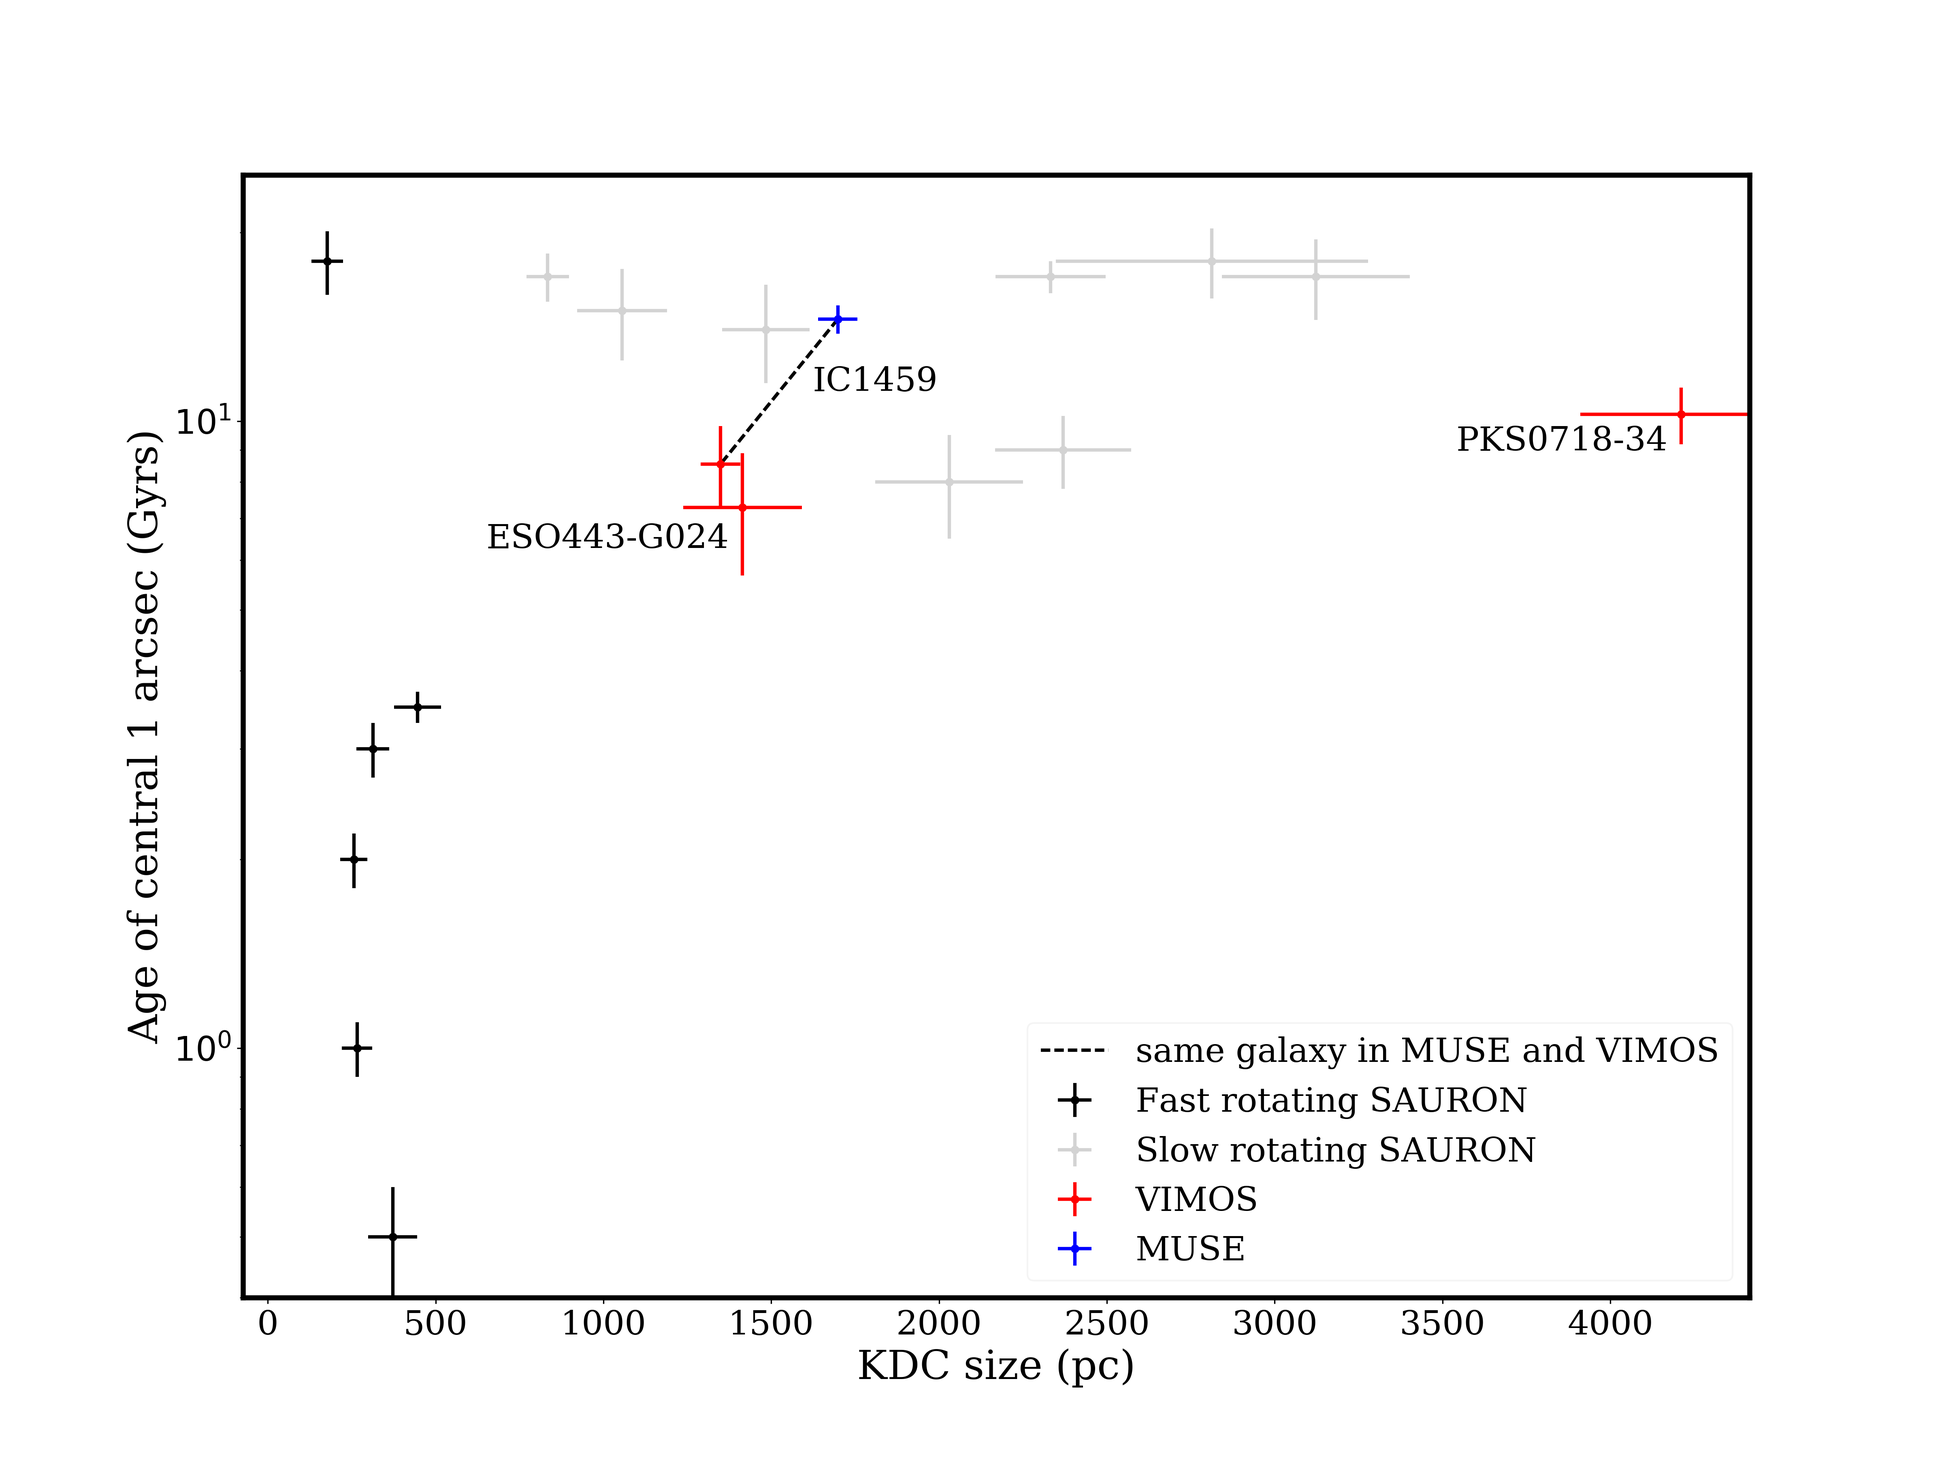
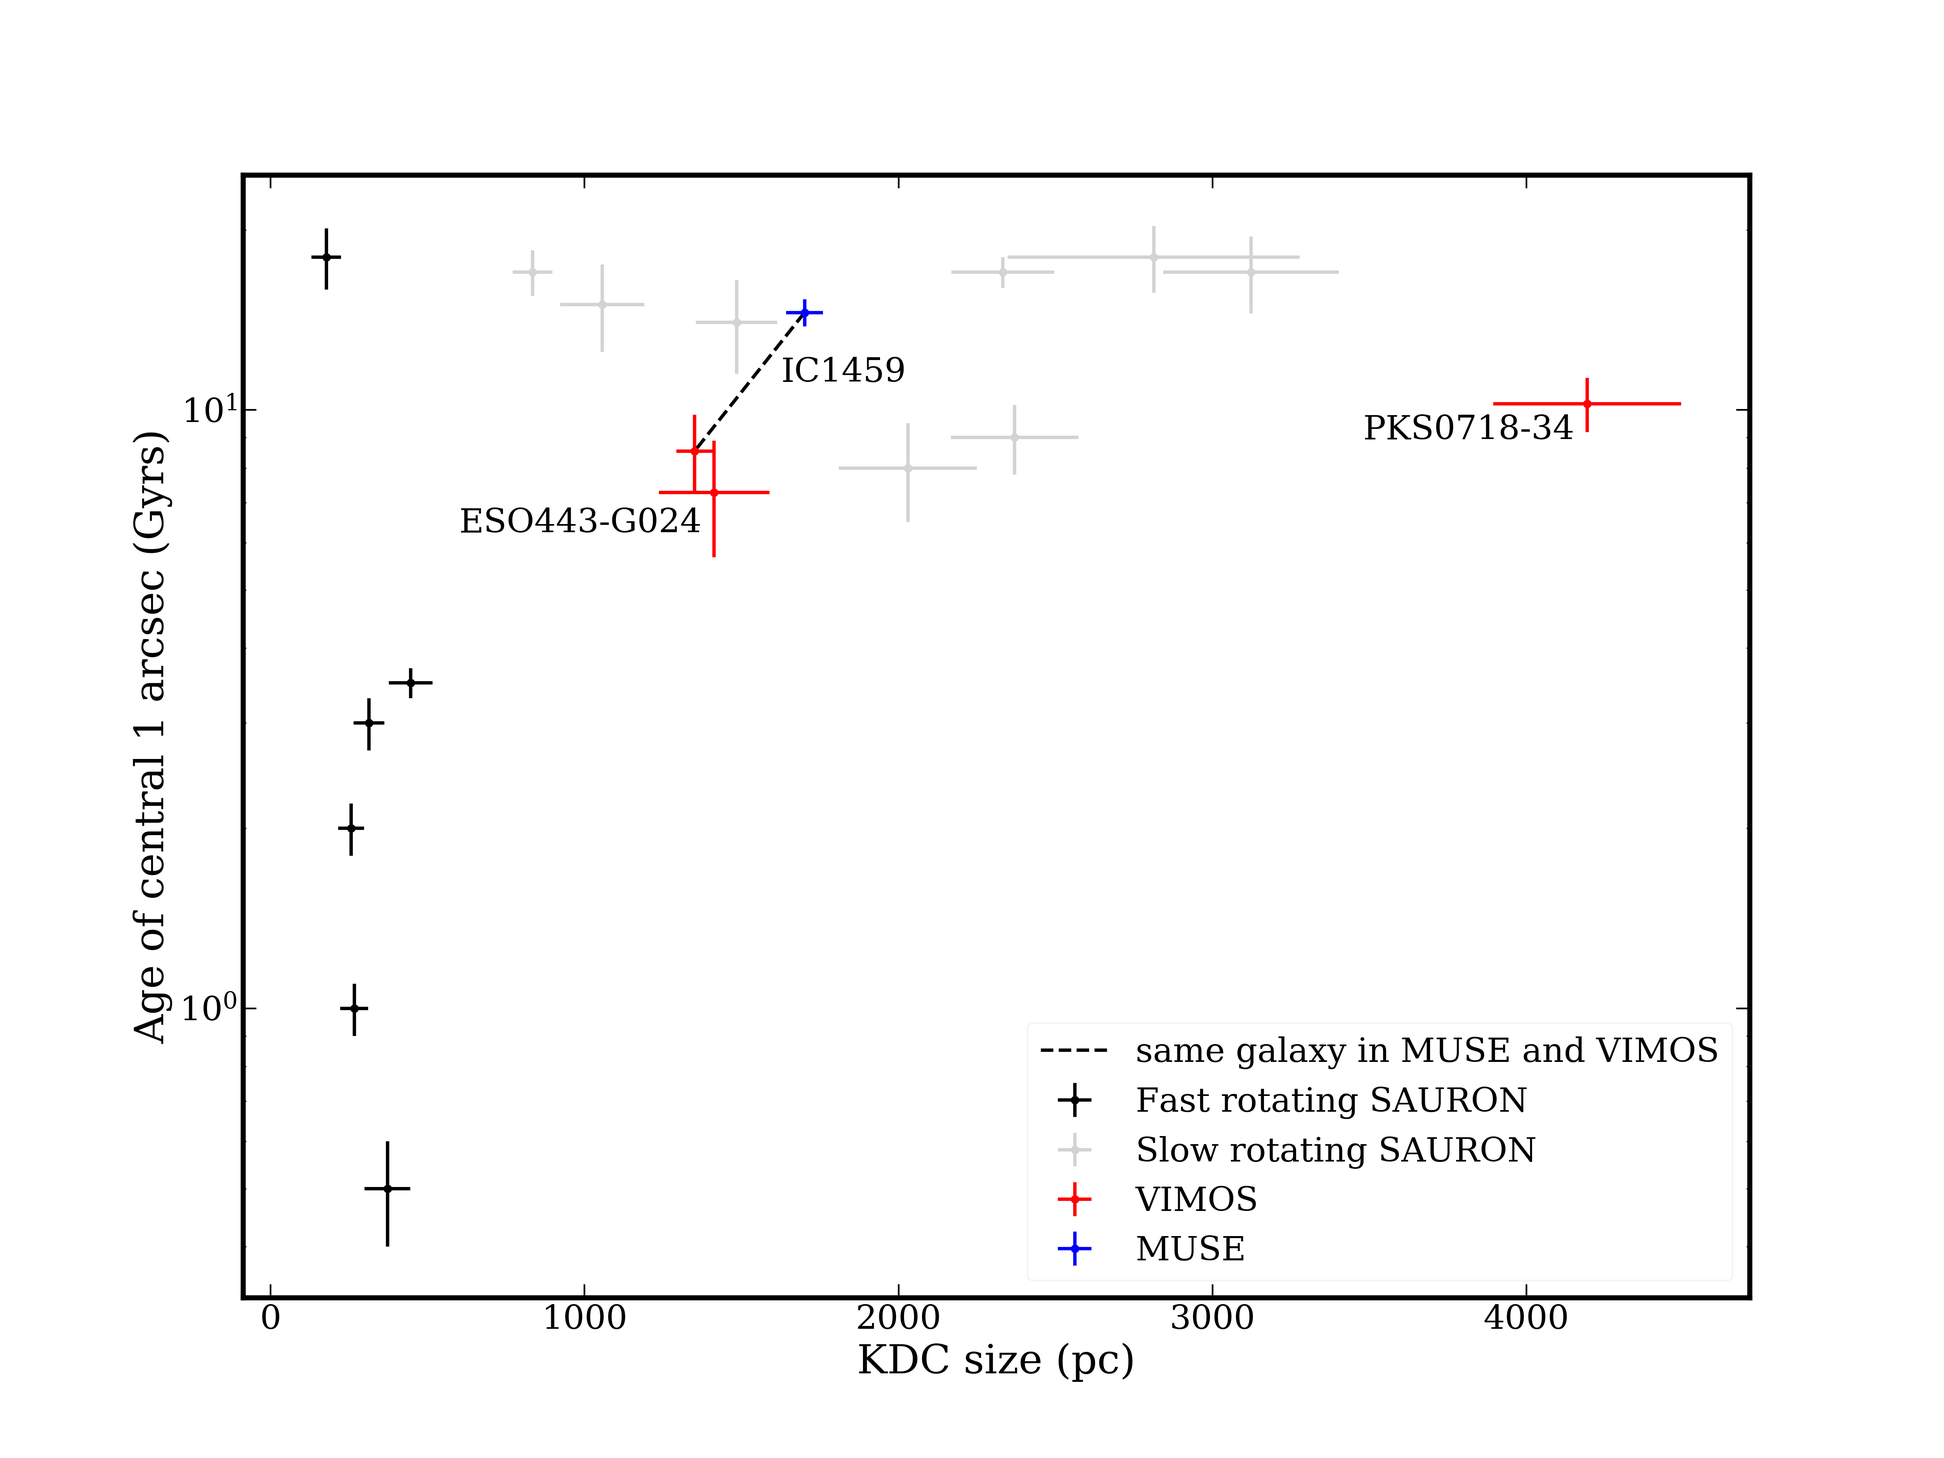
EoDC: Work on kinematics sections
Improved plots

 On branch chapter4
 Changes to be committed:
	modified:   chapter4/KDC_size_age.png
	modified:   chapter4/M_k_binned.png
	modified:   chapter4/Mg_sigma.png
	modified:   chapter4/chapter4.tex
	modified:   chapter4/lambda_R.png
	modified:   chapter4/lambda_R_ellipticity.png

diff --git a/chapter4/chapter4.tex b/chapter4/chapter4.tex
@@ -65,17 +65,17 @@ The chapter is structured as follows: firstly we present the kinematic maps for 
 				\hline
 				Galaxy		& $\lambda_\mathrm{R_e}$ & $\epsilon_\mathrm{e}$  & $\Gamma_\text{kin}$ (deg) & FR/SR 	& RR/NRR 	& Feature & Group 	\\
 				\hline 
-				ESO 443-G024 & 0.048 & 0.33 & 55.2 	& SR & NRR & KDC & c \\
-				IC 1459 	& 0.125 & 0.24 & 87.9	& SR & NRR & KDC & c \\
-				IC 1531 	& 0.101 & 0.01 & 64.4 	& FR & NRR & LV & a \\
-				IC 4296		& 0.034 & 0.03 & 83.2 	& SR & RR & -- & e \\
-				NGC 612 	& 0.655 & 0.36 & \leavevmode\phantom{0}7.3 	& FR & RR & -- & e \\
-				NGC 1316 	& 0.100 & 0.39 & 72.1 	& FR & NRR & -- & f \\
-				NGC 1399 	& 0.090 & 0.12 & 27.2 	& SR & NRR & LV & a \\
-				NGC 3100 	& 0.354 & 0.24 & 19.8 	& FR & RR & -- & e \\
-				NGC 3557 	& 0.312 & 0.21 & \leavevmode\phantom{0}7.6 	& FR & RR & -- & e\\
-				NGC 7075 	& 0.068 & 0.25 & 20.0 	& SR & NRR & -- & b \\
-				PKS 718-34  & 0.220 & 0.38 & 57.7 	& FR & NRR & KDC$^\text{a}$ & b\\
+				ESO 443-G024 & 0.048 & 0.35 & $-18\pm2$	& SR & NRR & KDC & c \\
+				IC 1459 	& 0.125 & 0.24 & 87.9 & SR & NRR & KDC & c \\
+				IC 1531 	& 0.101 & 0.08 & $-54\pm27$	& FR & NRR & LV & a \\
+				IC 4296		& 0.034 & 0.03 & 83.2 & SR & RR & -- & e \\
+				NGC 612 	& 0.655 & 0.36 & \leavevmode\phantom{-}$12\pm5$	& FR & RR & -- & e \\
+				NGC 1316 	& 0.100 & 0.39 & 72.1 & FR & NRR & -- & f \\
+				NGC 1399 	& 0.090 & 0.12 & 27.2 & SR & NRR & LV & a \\
+				NGC 3100 	& 0.354 & 0.24 & \leavevmode\phantom{0}$-8\pm1$ & FR & RR & -- & e \\
+				NGC 3557 	& 0.312 & 0.20 & \leavevmode\phantom{-}$16\pm2$ & FR & RR & -- & e\\
+				NGC 7075 	& 0.068 & 0.04 & \leavevmode\phantom{-}$36\pm27$ & SR & NRR & -- & b \\
+				PKS 718-34  & 0.159 & 0.17 & \leavevmode\phantom{-}$15\pm25$ & FR & NRR & KDC$^\text{a}$ & b\\
 				\hline
 				\hline
 			\end{tabular}
@@ -99,7 +99,7 @@ The chapter is structured as follows: firstly we present the kinematic maps for 
 
 			In reality, the VIMOS field of view does not always contain 1 $R_\mathrm{e}$. Where this is the case, we follow the method by \citet{Emsellem2007}, were $R_\mathrm{m}$ is redefined as $R_\mathrm{m} \equiv \sqrt{A_\mathrm{s}/\pi}$, where $A_\mathrm{s}$ is the area of the ellipse contained within the field of view. For a given galaxy, we fit ellipses as described above, up to $R_\mathrm{m} = R_\mathrm{max}$, where $A_\mathrm{s}$ reaches a maximum difference if 15\% to the area of the fitted ellipse, $A_\text{ellipse}$. The value $\epsilon_\mathrm{e}$, the ellipticity at 1 $R_\mathrm{e}$ or the $R_\text{max}$, whichever is smallest, is given in Table \ref{tab:classify}. 
 
-		\subsection{Fast/Slow Rotator Classification}
+		\subsection{Fast-/Slow-Rotator Classification}
 			\label{subsec:FSRot}
 			The specific angular momentum parameter $\lambda_R$ is evaluated at 1 $R_\mathrm{e}$ or $R_\text{max}$, whichever is smaller (as described for ellipticity in Section \ref{subsec:Ellipticity}), and is given in Table \ref{tab:classify}. This is plotted against the ellipticity, $\epsilon_\mathrm{e}$ (see Section \ref{subsec:Ellipticity}) in Fig.\,\ref{fig:lambdaR_ellip}. This plot shows the classification scheme of \citet{Cappellari2016} for the fast-/slow-rotator (FR/SR) categories (originally defined by \citealt{Emsellem2011}, but later refined by \citealt{Cappellari2016}; see Section \ref{sec:ETG}). This classification is given in Col.\,5 of Table \ref{tab:classify}.
 
@@ -110,34 +110,25 @@ The chapter is structured as follows: firstly we present the kinematic maps for 
 				\caption[$\lambda_\mathrm{R_e}$ -- ellipticity diagram]{$\lambda_\mathrm{R_e}$ -- ellipticity diagram. VIMOS and MUSE measurements are shown in red and blue, respectively. For comparison, Atlas$^\text{3D}$ galaxies \citep{Emsellem2011} are shown in black and MASSIVE galaxies \citep{Veale2017} in grey. The theoretical limit (edge-on systems) of disc-dominated galaxies is shown in solid magenta, with lines of constant intrinsic angular momentum but varying inclination in dotted magenta. The black solid lines show the limits of the fast-/slow-rotator classes. The MASSIVE survey does not report substructure, so the MASSIVE sample galaxies are shown with filled circles.}
 				\label{fig:lambdaR_ellip}
 			\end{figure}
+			We find that 5 out of 11 galaxies, or $(45\pm13)$\%, are slow rotators. This very different to that of the Atlas$^\text{3D}$ and MASSIVE samples, which find 13.1\% and 77.5\%, respectively. However, slow rotators are more likely to be found in higher mass galaxies and the three samples (Atlas$^\text{3D}$, MASSIVE and our Southern sample) have very different mass distributions (see upper panel of Fig.\,\ref{fig:SRmassFraction}).
 
-
-			%
-			The radial $\lambda_{R}$ profiles are shown in figure \ref{fig:lambdaR_profile}. Using the combined samples from Atlas$^\text{3D}$ and MASSIVE (hereafter the combined sample), we find that there is no discernible difference between the radio selected Southern Sample and the optically selected ETGs, once the difference in mass distribution is taken into account. 
-
-			%
-			We find the expected fraction of slow rotators in the southern sample, $f'$, corrected to the mass distribution of the combined sample as
+			In order to account for the difference in mass distribution, we find the expected fraction of slow rotators in the Southern sample, $f'$, corrected to the mass distribution of the combined Atlas$^\text{3D}$ and MASSIVE samples (hereafter the A+M sample), as
 			\begin{equation}
-				f' = \sum_{n=0}^N N_\mathrm{SS} f_\mathrm{CS}\, , 
+				f' = \sum_{i=0}^N N^\mathrm{SS}_i f^\mathrm{CS}_i \, , 
 			\end{equation}
-			where $N_\mathrm{SS}$ is the number of southern sample galaxies in the n$^\mathrm{th}$ mass bin, $N_\mathrm{CS}$ is the fraction of slow rotators in the n$^\mathrm{th}$ in the combined sample and $N$ is the total number of mass bins. In our case we use K-band magnitude ($M_K$) as a proxy for mass, with bins 0.5 mag wide. This gives $f' = 0.64 \pm 0.06$. This is consistent with our finding of 56\% of the Southern Sample being slow rotators.
-
-			
-
-			
-
-
-			
+			where $N^\mathrm{SS}_i$ is the number of Southern sample galaxies in the $i^\mathrm{th}$ mass bin, $N^\mathrm{CS}_i$ is the fraction of slow rotators in the $i^\mathrm{th}$ mass bin in the A+M combined sample and $N$ is the total number of mass bins. In our case we use the $K$-band absolute magnitude ($M_K$) as a proxy for stellar mass, with bins of 0.5 mag. This gives $f' = 0.64 \pm 0.06$, consistent with our finding of $(45\pm13)$\% of the Southern sample galaxies being slow rotators, particularly considering the low number statistics of the Southern sample. There is, therefore, no discernible difference in the fraction of galaxies that are slow-rotators between our radio-selected Southern sample and the optically-selected A+M sample, once differences in the mass distributions are taken into account. 
 
 			\begin{figure}
 				\centering
 				\includegraphics[width=0.8\textwidth]{chapter4/M_k_binned.png}
-				\caption[Mass matching global kinematics]{Upper panel: mass distribution of the combined Atlas$^\text{3D}$ and MASSIVE surveys (black) and of our Southern sample (red). Lower panel: fraction of slow rotators within each mass bin. The labels list the number of slow rotators and total number of galaxies in each bin.}
+				\caption[Mass matching global kinematics]{Upper panel: mass distribution of the A+M sample (black) and of our Southern sample (red). Lower panel: fraction of slow rotators within each mass bin. The labels list the number of slow rotators and total number of galaxies in each bin.}
 				\label{fig:SRmassFraction}
 			\end{figure}
 
 		\subsection{Radial Angular Momentum Profile}
 			\label{subsec:ResolvedLambda_R}
+			The radial $\lambda_R$ profiles (i.e. $\lambda_R$ as a function of aperture radius) are shown in Fig.\,\ref{fig:lambdaR_profile}. We see, with the exception of IC 1531, a disc with very low inclination, fast and slow rotators are separated by $\approx 0.3\,\mathrm{R_\odot}$. We also see that most of the fast rotators of our Southern sample have a rapidly rising $\lambda_R$ profile, which flatten out by $\approx 0.5\,\mathrm{R_\odot}$. This is consistent with the SAURON surveys findings \citep[e.g.][Fig.\,2]{Emsellem2007}. 
+
 			\begin{figure}
 				\centering
 				\includegraphics[width=.7\textwidth]{chapter4/lambda_R.png}
@@ -149,25 +140,20 @@ The chapter is structured as follows: firstly we present the kinematic maps for 
 
 		\subsection{Misalignments Between Kinematic and Photometric Axes}
 			\label{subsec:Misalignment}
-% How do we measure PA_kine
-			%
-			The photometric position angle, $PA_\text{phot}$, is the angle of axis from North along which the surface brightness reaches the maximum values. Similarly, the kinematic position angle, $PA_\text{kin}$, is the angle of axis from North along which the projected velocities reaches the maximum absolute values. Column 4 in table \ref{tab:classify} shows the misalignment between the photometric position angle and the kinematic position angle, $\Gamma_\text{kin} = \left| PA_\text{phot} - PA_\text{kin} \right|$. \citet{Cappellari2007}, \citet{Krajnovic2011} and \citet{Fogarty2015} all show that regular rotating galaxies (hereafter referred to as regular rotators) almost always have aligned kinematic and photometric axes (with a scatter of 4$\degree$). 
 
-			%
-			Regular rotators with a significant misalignment are either very round, interacting or strongly barred (see figure \ref{fig:Misalignment}). Taking into account the lower quality of data, our results are consistent with this. Of the 4 regularly rotating galaxies in the Southern sample, 2 are misaligned to less than 8$\degree$ (NGC 612 and NGC 3557) and the other 2 are round ($\epsilon < 0.3$; IC 4296 and NGC 3100). As noted in \citet{Cappellari2016}, this result requires that regular rotators are axis-symmetric.
+			The photometric position angle, $PA_\text{phot}$, is defined as the angle westwards from North of semi-major axis of the largest best-fitting ellipse as found in Section \ref{fig:Ellipticity}.  
 
-		
-			%
-			Misalignments between the photometric and kinematic position angles are routinely observed for non-regularly rotating galaxies (hereafter referred to as non regular-rotators). This generally implies a more triaxial intrinsic shape, however large misalignments are extremely rarely observed in galaxies with $\epsilon > 0.4$. This suggests that non-regularly rotating galaxies are more spherical in shape. This is the reason for the $\epsilon < 0.4$ requirement in the definition for slow rotators. The non-regular rotators in our sample all have $\epsilon < 0.4$. 
-		
-		
+			The kinematic position angle, $PA_\text{kin}$, is defined as the angle of the axis perpendicular to the apparent angular momentum vector westwards from North. A global value of $PA_\text{kin}$ is found using the \textsc{python} routine \textsc{fit_kinematic_pa}\footnote{http://www-astro.physics.ox.ac.uk/~mxc/software/#pa_kin} as described in appendix C of \citet{krajnovic2006}. This routine finds a symmetric (about $PA_\text{kin}$) velocity field, by replacing the mean velocity, $V$, in each bin with
+			\begin{equation}
+				V^\prime(x, y) = \frac{V(x,y) + V(x, -y) - V(-x,y) - V(-x,-y))}{4} \,,
+			\end{equation}
+			where $x$ and $y$ are the centroid coordinates of a given bin, with the origin at the centre of the galaxy and the x axis aligned along $PA_\text{kin}$. Linear interpolation is used where necessary.
 
+			Column 4 in Table \ref{tab:classify} lists the misalignments between the photometric and kinematic position angles, $\Gamma_\text{kin} \equiv \arcsin\sin\left( PA_\text{phot} - PA_\text{kin} \right)$. \citet{Cappellari2007}, \citet{Krajnovic2011} and \citet{Fogarty2015} all showed that regular rotators almost always have aligned photometric and kinematic axes (with a scatter of 4$\degree$). 
 
-		
+			Regular rotators with a significant misalignment are either very round, interacting or strongly barred (see Fig.\,\ref{fig:Misalignment}). Taking into account the lower quality of our data, our results are consistent with this. Of the 4 regular rotators in our Southern sample, 2 are misaligned by less than 8$\degree$ (NGC 612 and NGC 3557) and the other 2 are round ($\epsilon < 0.3$; IC 4296 and NGC 3100). As noted in \citet{Cappellari2016}, this result requires that regular rotators are axisymmetric.
 
-
- 
-
+			Misalignments between the photometric and kinematic position angles are routinely observed for non-regular rotators. This generally implies a more triaxial intrinsic shape, although large misalignments are extremely rarely observed in galaxies with $\epsilon > 0.4$, suggesting that non-regular rotators are more spherical in shape. This is the reason for the $\epsilon < 0.4$ requirement in the definition of slow rotators. The non-regular rotators in our sample indeed all have $\epsilon < 0.4$.
 
 \section{Stellar Population}
 	\label{sec:pop}
@@ -374,7 +360,7 @@ The chapter is structured as follows: firstly we present the kinematic maps for 
 		\begin{figure}
 			\centering
 			\includegraphics[height=0.94\textheight]{chapter4/vimos/pop1.png}
-			\caption[VIMOS stellar population maps]{VIMOS stellar population maps: From left to right: age, metallicity and alpha enhancement, Top to bottom ESO 443-G24, IC 1459 and IC 1531. Rows show parameter and uncertainty in the parameter on alternate rows. Plots are as in figure \ref{fig:VIMOS_stellar}. colour scales have limits reflecting the range of SSP available models.}
+			\caption[VIMOS stellar population maps]{VIMOS stellar population maps: From left to right: age, metallicity and alpha enhancement, Top to bottom ESO 443-G24, IC 1459 and IC 1531. Rows show parameter and uncertainty in the parameter on alternate rows. Plots are as in Fig.\,\ref{fig:VIMOS_stellar}. colour scales have limits reflecting the range of SSP available models.}
 			\label{fig:VIMOS_pop}
 		\end{figure}
 		\begin{figure}
@@ -396,7 +382,7 @@ The chapter is structured as follows: firstly we present the kinematic maps for 
 		\begin{figure}
 			\centering
 			\includegraphics[height=0.94\textheight]{chapter4/muse/pop1.png}
-			\caption[MUSE stellar population maps]{MUSE stellar population maps: From top to bottom IC 1459, IC 4296 and NGC 1316. Plots are as in figure \ref{fig:VIMOS_stellar}. colour scales have limits reflecting the range of SSP available models.}
+			\caption[MUSE stellar population maps]{MUSE stellar population maps: From top to bottom IC 1459, IC 4296 and NGC 1316. Plots are as in Fig.\,\ref{fig:VIMOS_stellar}. colour scales have limits reflecting the range of SSP available models.}
 			\label{fig:MUSE_pop}
 		\end{figure}
 		\begin{figure}
@@ -460,7 +446,7 @@ The chapter is structured as follows: firstly we present the kinematic maps for 
 		\citet{Mehlert2003} showed the existence of the internal Mg--$\mathrm{\sigma}$ relation, but also suggested that it had a different origin to that of the global relation. They found that alpha-enhancement correlates with velocity dispersion and drives about 30\% of the global Mg--$\sigma$ relation. Metallicity variations provide the remaining 70\%. The alpha-enhancement usually has no radial gradient (while velocity dispersion is highly dependent on radius) suggesting that alpha-enhancement has no role in the internal Mg--$\sigma$ relation. 
 
 		\subsubsection{Global Relation}
-			Using an aperture with a radius of 2 arcsec on each dataset, we find a global linear gradient of $2.7\pm1.9 \,\mathrm{\AA/\log(km \, s^{-1})}$. This is consistent with the gradient found by \citet{Ziegler1997} for a sample of elliptical galaxies within Virgo and Coma using data from \citet{Dressler1987}. However, figure \ref{fig:globalMg} shows there is a considerable offset of $\approx0.75\,\mathrm{\AA}$ between our best-fitting line (solid line) and the best-fitting line (dashed line) from \citet{Ziegler1997}. Individual measurements for each galaxy are given in table \ref{tab:globalMg}.
+			Using an aperture with a radius of 2 arcsec on each dataset, we find a global linear gradient of $2.7\pm1.9 \,\mathrm{\AA/\log(km \, s^{-1})}$. This is consistent with the gradient found by \citet{Ziegler1997} for a sample of elliptical galaxies within Virgo and Coma using data from \citet{Dressler1987}. However, Fig.\,\ref{fig:globalMg} shows there is a considerable offset of $\approx0.75\,\mathrm{\AA}$ between our best-fitting line (solid line) and the best-fitting line (dashed line) from \citet{Ziegler1997}. Individual measurements for each galaxy are given in table \ref{tab:globalMg}.
 			%%no uncertainties quoted in Dressler1987 so comparison is meaningless.
 			%NGC 1399 was observed by \citet{Dressler1987}, but measures Mg$_2$ instead of Mg$_b$. In order to compare we make use of the linear conversion (eq. 1 in \citet{Ziegler1997}):
 			% \begin{equation}
